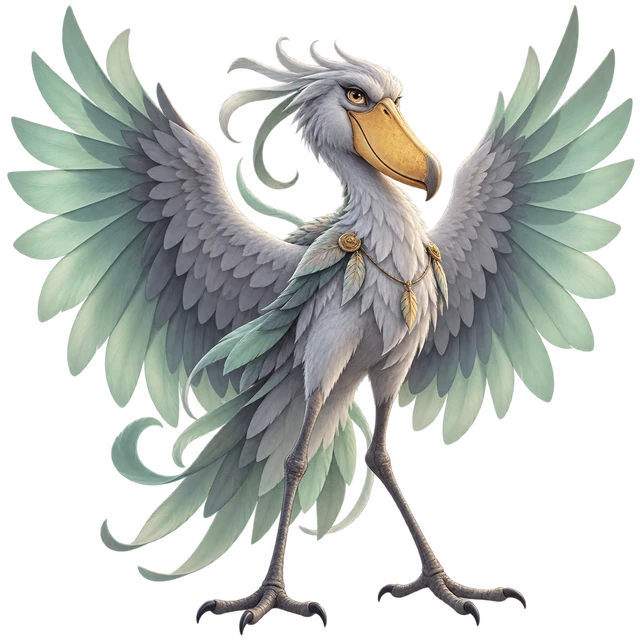
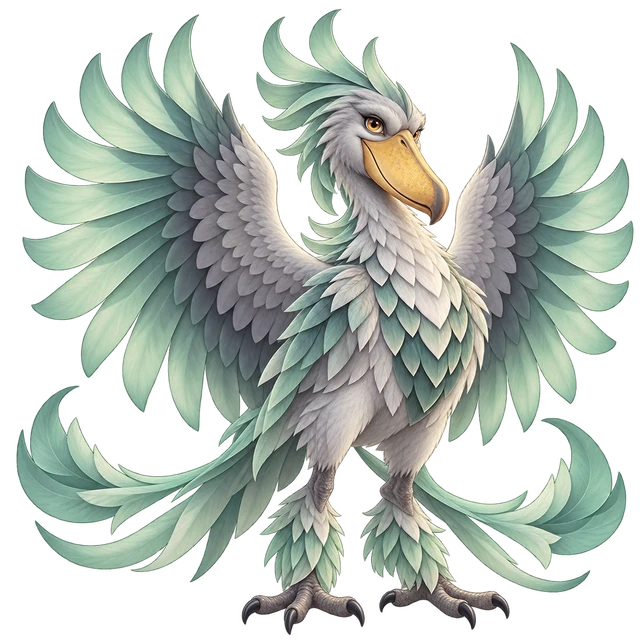
Differentiate final bird and ray evolution silhouettes

diff --git a/docs/pet-image-prompts.md b/docs/pet-image-prompts.md
@@ -24,7 +24,7 @@ Use case: stylized-concept. Asset: fantasy classroom pet game cutout sprite. ONE
 
 ## tidalray-3
 
-Use case: stylized-concept. Asset: fantasy classroom pet game cutout sprite. ONE character alone, full body, centered square canvas, all extremities visible with 8 percent safe margin. Truly transparent background, no ground, no text, no watermark. Premium softly painted 3D storybook illustration, rich tactile detail, gentle studio light. CUTE and lovable first, rounded appealing proportions, exactly TWO normal expressive eyes. Never grotesque, creepy, ugly, cyclops, body horror. Final evolution may look mildly fierce and noble but still cute. Distinct from fox, penguin, salamander, squirrel, mole, moth. Character: majestic huge lavender ocean manta ray, expansive sweeping triangular fins, pale turquoise rippling underside, curled cephalic horns and long flowing ribbon tail; entirely aquatic ray anatomy. Evolution stage 3 of 3. Adult, impressive elaborate silhouette.
+Edit target: image 1, final evolution of fantasy manta ray pet. Image 2 is stage 2 reference, leave it untouched. Substantially redesign final anatomy and silhouette, NOT just enlarging the adolescent. Preserve premium softly painted 3D storybook style, lavender upper surface and pale turquoise underside, two expressive blue eyes, sweet but confident noble face. Transform into regal ocean guardian ray: thick compact central manta body; two huge pointed CRESCENT pectoral fins with deep sculpted trailing notches (no ruffled scallops); a distinct SECOND smaller pair of swept-back pelvic fins below; a tall translucent turquoise dorsal sail ridge visible behind head; curled forehead lobes become short swept-back fin horns; a prominent opalescent teardrop marking on forehead; single tail splits halfway into TWO flowing tails each ending in a broad crescent fluke. Show clear 3/4 front/top angle so dorsal sail and both fin pairs visible. Organic smooth aquatic forms, subtle pale gold edge markings. No bird feathers, no hands, no legs, no insect anatomy, no creepy features. CUTE and approachable, final-stage grandeur. One full-body character centered square canvas, every fin and tail inside frame with 8% empty safe margin. True transparent background, no text, no floor, no shadow.
 
 ## kilncrab-1
 
@@ -48,7 +48,7 @@ Use case: stylized-concept. Asset: fantasy classroom pet game cutout sprite. ONE
 
 ## reedstork-3
 
-Use case: stylized-concept. Asset: fantasy classroom pet game cutout sprite. ONE character alone, full body, centered square canvas, all extremities visible with 8 percent safe margin. Truly transparent background, no ground, no text, no watermark. Premium softly painted 3D storybook illustration, rich tactile detail, gentle studio light. CUTE and lovable first, rounded appealing proportions, exactly TWO normal expressive eyes. Never grotesque, creepy, ugly, cyclops, body horror. Final evolution may look mildly fierce and noble but still cute. Distinct from fox, penguin, salamander, squirrel, mole, moth. Character: regal tall silver-grey shoebill storm bird, enormous mustard angular beak, sweeping mint flight feathers with wide spread wings, long thin legs, wind curls, confident slightly fierce but charming face. Evolution stage 3 of 3. Adult, impressive elaborate silhouette.
+Edit target: image 1, final evolution of classroom fantasy bird pet. Image 2 is stage 2 reference, must remain untouched. Redesign image 1's anatomy and silhouette so evolution is visibly substantial, NOT merely bigger or wings spread. Preserve same premium softly painted 3D storybook style, silver grey and mint palette, distinctive golden shoebill beak, two expressive amber eyes, lovable face with mildly fierce noble brow. New form: compact powerful griffin-like AVIAN torso (still strictly two legs and two wings, NO mammal legs), broad layered breastplate of overlapping white and deep teal feather scales, tall swept-back THREE-PRONG mint feather crown, shortened sturdy legs with fluffy feather boots, huge crescent-shaped wings with long separate blade-like mint primary feathers, and TWO long dramatic forked streaming tail plumes sweeping to the sides. Clearly distinguish crowned head, armored broad chest, feather boots and twin tail from lanky adolescent. No jewelry, no weapons. Full body all wings crown feet and tails within square frame with 8% empty safety margin, one character only, transparent background. No text, no floor or shadow. Cute fantasy guardian, not grotesque.
 
 ## claygolem-1
 
